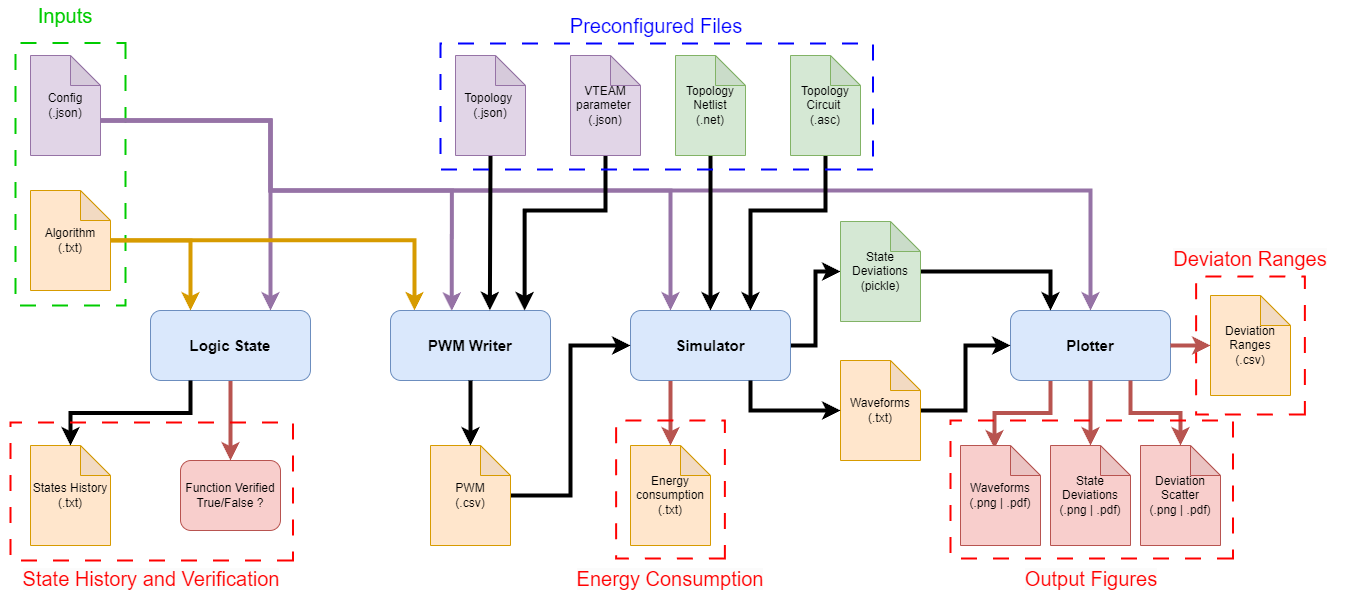
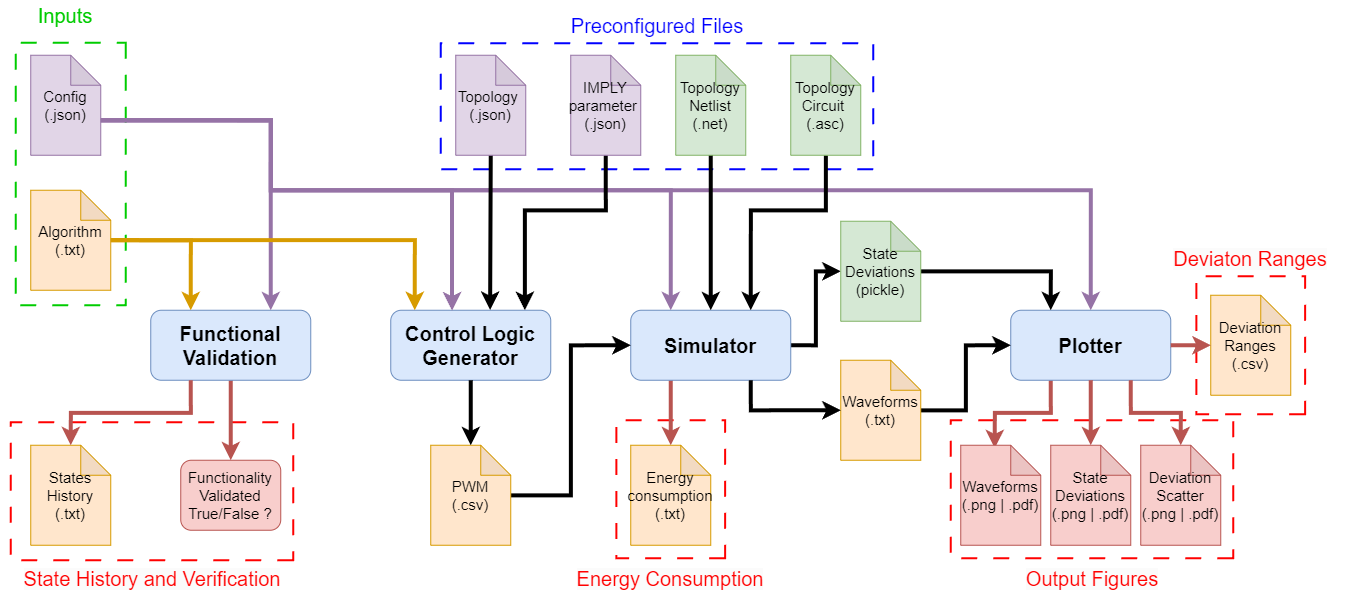
Fixed naming conventions

diff --git a/src/ControlLogicGenerator.py b/src/ControlLogicGenerator.py
@@ -53,6 +53,8 @@ class ControlLogicGenerator:
                 self.output_sw = ([self.create_empty_csv(f"{self.output_path}{memristor}_sw.csv")
                                   for memristor in self.memristors]
                                   + [self.create_empty_csv(f"{self.output_path}S{j+1}.csv") for j in range(3)])
+            # ADD NEW TOPOLOGIES HERE:
+            # elif self.topology == "New topology":
 
             # Create lists with command content
             self.pwm_mem = [["0u,0"] for _ in self.output_mem]
@@ -74,6 +76,8 @@ class ControlLogicGenerator:
             elif self.topology == "Semi-Serial" or self.topology == "Semi-Parallel":
                 lines_sectioned = [line.split("|") for line in lines]
                 lines_clean = [[cmd.strip() for cmd in line] for line in lines_sectioned]
+            # ADD NEW TOPOLOGIES HERE:
+            # elif self.topology == "New topology":
             else:
                 self.logger.L.error(f"Invalid topology found: {self.topology}")
                 raise NotImplementedError(f"Invalid topology {self.topology}")
@@ -117,6 +121,7 @@ class ControlLogicGenerator:
                             f.write(line + '\n')
 
             elif self.topology == "Semi-Serial":
+                # Add final lines to zero out the simulation after the steps
                 for i, _ in enumerate(self.pwm_mem):
                     self.pwm_mem[i].append(f"{self.step_size * self.count + 0.001}u,0")
                     self.pwm_mem[i].append(f"{self.step_size * (self.count + 1)}u,0")
@@ -124,6 +129,7 @@ class ControlLogicGenerator:
                     self.pwm_sw[j].append(f"{self.step_size * self.count + 0.001}u,-100")
                     self.pwm_sw[j].append(f"{self.step_size * (self.count + 1)}u,-100")
 
+                # Write the content in each memristor + switches files
                 for i, mem in enumerate(self.memristors):
                     with open(f"{self.output_path}{mem}.csv", "a") as f:
                         for line in self.pwm_mem[i]:
@@ -151,11 +157,16 @@ class ControlLogicGenerator:
                         for line in self.pwm_sw[i]:
                             f.write(line + '\n')
 
+                # Write the content for the section switches
                 switches_sec = ["S1", "S2", "S3"]
                 for j, sw in enumerate(self.pwm_sw[-3:]):
                     with open(f"{self.output_path}{switches_sec[j]}.csv", "a") as f:
                         for line in sw:
                             f.write(line + '\n')
+
+            # ADD NEW TOPOLOGIES HERE:
+            # elif self.topology == "New topology":
+
         except Exception as e:
             self.logger.L.error(f"Writing PWM outputs to files failed at {self.__class__.__name__} due to: {e}")
 
@@ -340,6 +351,8 @@ class ControlLogicGenerator:
 
         elif self.topology == "Semi-Parallel":
             self.write_timestep_semi_parallel(cmd)
+        # ADD NEW TOPOLOGIES HERE:
+        # elif self.topology == "New topology":
 
         self.count = self.count + 1
 

diff --git a/src/FunctionalValidation.py b/src/FunctionalValidation.py
@@ -7,16 +7,16 @@ import numpy as np
 from src.util import Logger
 
 
-class FunctionalVerification:
+class FunctionalValidation:
     """
     This class is responsible for creating a State History for each memristor
-    and to verify the functionality of a given algorithm in IMPLY logic
+    and to validate the functionality of a given algorithm in IMPLY logic
     """
 
     def __init__(self, config: dict):
 
         self.logger = Logger()
-        self.logger.L.info('Initializing class FunctionalVerification')
+        self.logger.L.info(f'Initializing class {self.__class__.__name__}')
 
         try:
             self.topology = config["topology"]    # ["Serial", "Semi-Serial", "Semi-Parallel"]
@@ -56,7 +56,7 @@ class FunctionalVerification:
                     f.write("")
 
         except Exception as e:
-            self.logger.L.error(f"Initialization of FunctionalVerification failed: {e}")
+            self.logger.L.error(f"Initialization of {self.__class__.__name__} failed: {e}")
 
     def generate_input(self, index: int) -> [int]:
         """
@@ -179,6 +179,9 @@ class FunctionalVerification:
                             raise ValueError(f"Incorrect Function in algorithm line: {line[section]}")
                     if plot_tt:
                         self.print_states()
+
+            # ADD NEW TOPOLOGIES HERE
+            # elif.topology == "New topology":
 
         # Check if the operation leads to valid results
         self.check_if_valid()

diff --git a/src/Simulator.py b/src/Simulator.py
@@ -66,10 +66,12 @@ class Simulator:
         self.netlist.set_parameter("tstop", f"{self.sim_time}u")
         self.netlist.set_parameter("R_g", self.parameters["R_G"])
 
+        # The memristors of the topology are checked, and if in use the voltages are overwritten
         for i, mem in enumerate(self.topology_data["memristors"]):
             self.netlist.set_component_value(device=f'{self.topology_data["voltages_mem"][i]}',
                                              value=open_csv(f"./Structures/{self.topology}/{mem}.csv"))
 
+        # The switches of the topology are checked, and if in use the voltages are overwritten
         for j, switch in enumerate(self.topology_data["switches"]):
             self.netlist.set_component_value(device=f'{self.topology_data["voltages_sw"][j]}',
                                              value=open_csv(f"./Structures/{self.topology}/{switch}.csv"))
@@ -122,7 +124,7 @@ class Simulator:
             for mem in self.memristors:
                 outputs.append([LTR.get_trace(f'V({mem})').get_wave(step) for step in steps][0])
             outputs_array = np.array(outputs)
-            outputs_array[:, 0] = np.zeros(shape=(len(outputs),))     # To fix bug of LTSPICE
+            outputs_array[:, 0] = np.zeros(shape=(len(outputs),))     # To fix bug that sometimes happens in LTSPICE
             header = ['time'] + [f'{mem}' for mem in self.memristors]
 
         except Exception as e:

diff --git a/Pipeline.py b/Pipeline.py
@@ -4,7 +4,7 @@ Created by Fabian Seiler @ 26.07.24
 import json
 import argparse
 
-from src.FunctionalVerification import FunctionalVerification
+from src.FunctionalValidation import FunctionalValidation
 from src.ControlLogicGenerator import ControlLogicGenerator
 from src.Simulator import Simulator
 from src.Plotter import Plotter
@@ -29,7 +29,7 @@ if __name__ == '__main__':
         config = json.load(f)
 
     # Check if the algorithm is valid and the resulting states are correct
-    Verifier = FunctionalVerification(config)
+    Verifier = FunctionalValidation(config)
     Verifier.calc_algorithm(plot_tt=True)
     print("\n--------------- Logic States verified! ---------------\n")
 

diff --git a/src/Plotter.py b/src/Plotter.py
@@ -303,7 +303,7 @@ class Plotter:
                                 f"Logic 1 (max), " + ", ".join(map(str, r1[idx, :, 1])) + "\n")
                     text += data_str
 
-                with open(f"./outputs/deviation_results/range_logic1.csv", "w") as fp:
+                with open(f"./outputs/deviation_results/deviation_range.csv", "w") as fp:
                     fp.write(text[:-1])
 
         except Exception as e:

diff --git a/README.md b/README.md
@@ -1,14 +1,12 @@
-<!-- AuToSVIMC **Au**tomatic **To**ol for **S**imulation and **V**erification of **I**MPLY logic for **Me**mristive **C**ircuits
-AVerSIMC: Automatic Verification and Simulation of IMPLY logic for Memristive Circuits -->
+<!--# ATOMIC-SAVE: Automatic Tool for Memristive IMPLY-based Circuit-level Simulation and Validation-->
+# ATOMIC: Automatic Tool for Memristive IMPLY-based Circuit-level Simulation and Validation
 
-# ATOMIC-SAV: Automatic Tool for Memristive IMPLY-based Circuit-level Simulation and Verification
-
-An automatic verification, evaluation, and plotting tool for memristive IMPLY-based In-Memory Computing 
+An automatic validation, evaluation, and plotting tool for memristive IMPLY-based In-Memory Computing 
 that is based on the PyLTSpice framework. This tool is able to automatically evaluate a large portion of the 
 design and evaluation process for IMPLY-based algorithms in various topologies.\
 The pipeline for this project automates the following steps:
-1) Functional verification of algorithms in the Serial, Semi-Serial, and Semi-Parallel topology
-2) Creation of PWM files and mapping to defined topology
+1) Functional validation of algorithms in the Serial, Semi-Serial, and Semi-Parallel topology
+2) Creation of control logic via PWM signals and mapping to defined topology
 3) SPICE simulations with energy consumption calculation
 4) SPICE simulations with resistive state deviations of the memristors
 5) Output State evaluation with resistive deviations
@@ -35,7 +33,7 @@ In the case of problems, try to first run: ```pip install --upgrade pip setuptoo
 
 ## How to use
 
-### Run Verification and Simulation Pipeline
+### Run Validation and Simulation Pipeline
 #### (1) Create Pseudocode of algorithm (1-bit)
 
 Navigate to the folder ``algorithms`` and create a new file ``ALGORITHM_NAME.txt`` \
